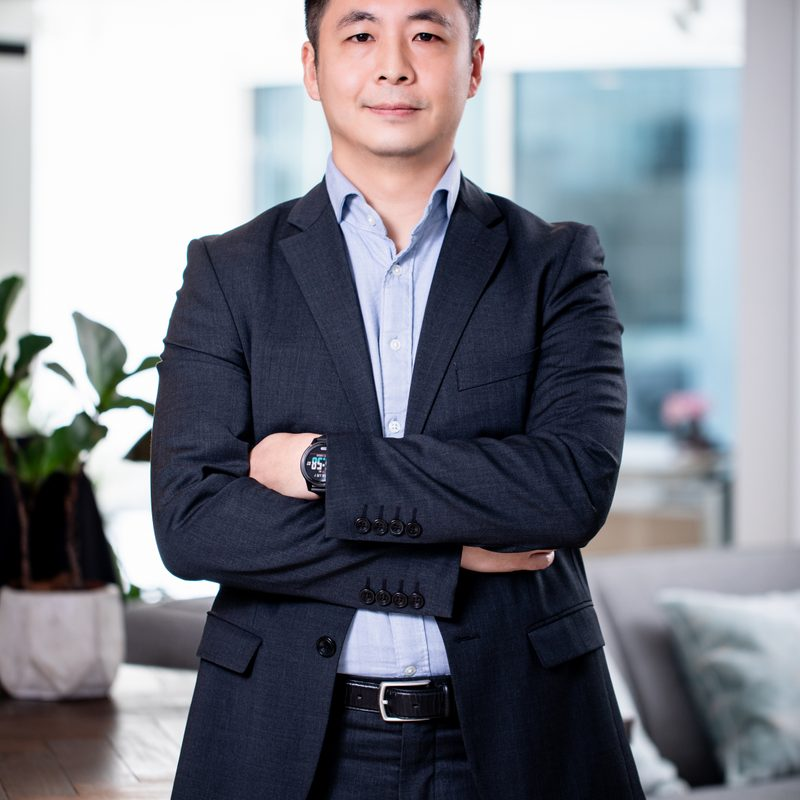
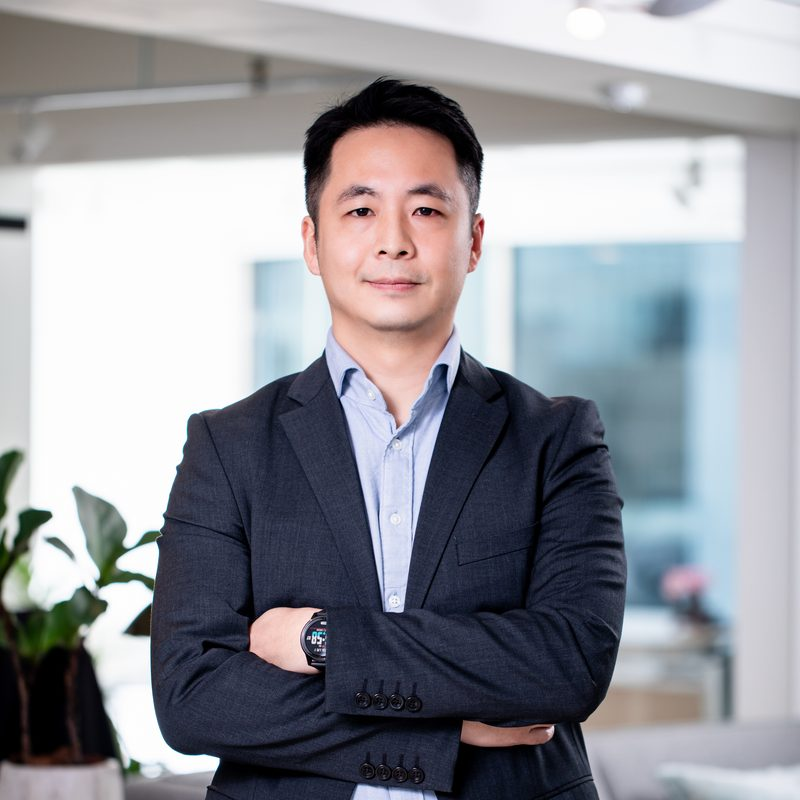
fix: preserve judge portrait framing

diff --git a/content.js b/content.js
@@ -630,8 +630,8 @@ window.JUDGES = [
     nameEn: "ChingWen Yang",
     affiliationZh: "嶺東科技大學｜副校長",
     affiliationEn: "Vice President, Ling Tung University",
-    imageJpg: "assets/judges/chingwen-yang.jpg",
-    imageWebp: "assets/judges/chingwen-yang.webp",
+    imageJpg: "assets/judges/chingwen-yang.jpg?v=2",
+    imageWebp: "assets/judges/chingwen-yang.webp?v=2",
     alt: { "zh-Hant": "楊晴雯 照片", en: "Portrait of ChingWen Yang" }
   },
   {
@@ -657,8 +657,8 @@ window.JUDGES = [
     nameEn: "Giga Tseng",
     affiliationZh: "旋宇科技",
     affiliationEn: "Nautilus AI",
-    imageJpg: "assets/judges/giga-tseng.jpg",
-    imageWebp: "assets/judges/giga-tseng.webp",
+    imageJpg: "assets/judges/giga-tseng.jpg?v=2",
+    imageWebp: "assets/judges/giga-tseng.webp?v=2",
     alt: { "zh-Hant": "曾思遠 照片", en: "Portrait of Giga Tseng" }
   },
   {

diff --git a/styles.css b/styles.css
@@ -8379,14 +8379,23 @@ body.js-on #partners .reveal.is-visible .partner-category:nth-child(5) {
 
   #judges .judge-card {
     display: grid;
-    grid-template-columns: 104px minmax(0, 1fr);
+    grid-template-columns: 112px minmax(0, 1fr);
   }
 
   #judges .judge-card picture {
-    width: 104px;
+    display: flex;
+    width: 112px;
     height: 100%;
-    min-height: 150px;
+    min-height: 0;
+    align-items: center;
     aspect-ratio: auto;
+  }
+
+  #judges .judge-card img {
+    width: 112px;
+    height: auto;
+    aspect-ratio: 1;
+    object-fit: contain;
   }
 
   .judge-card-copy {
